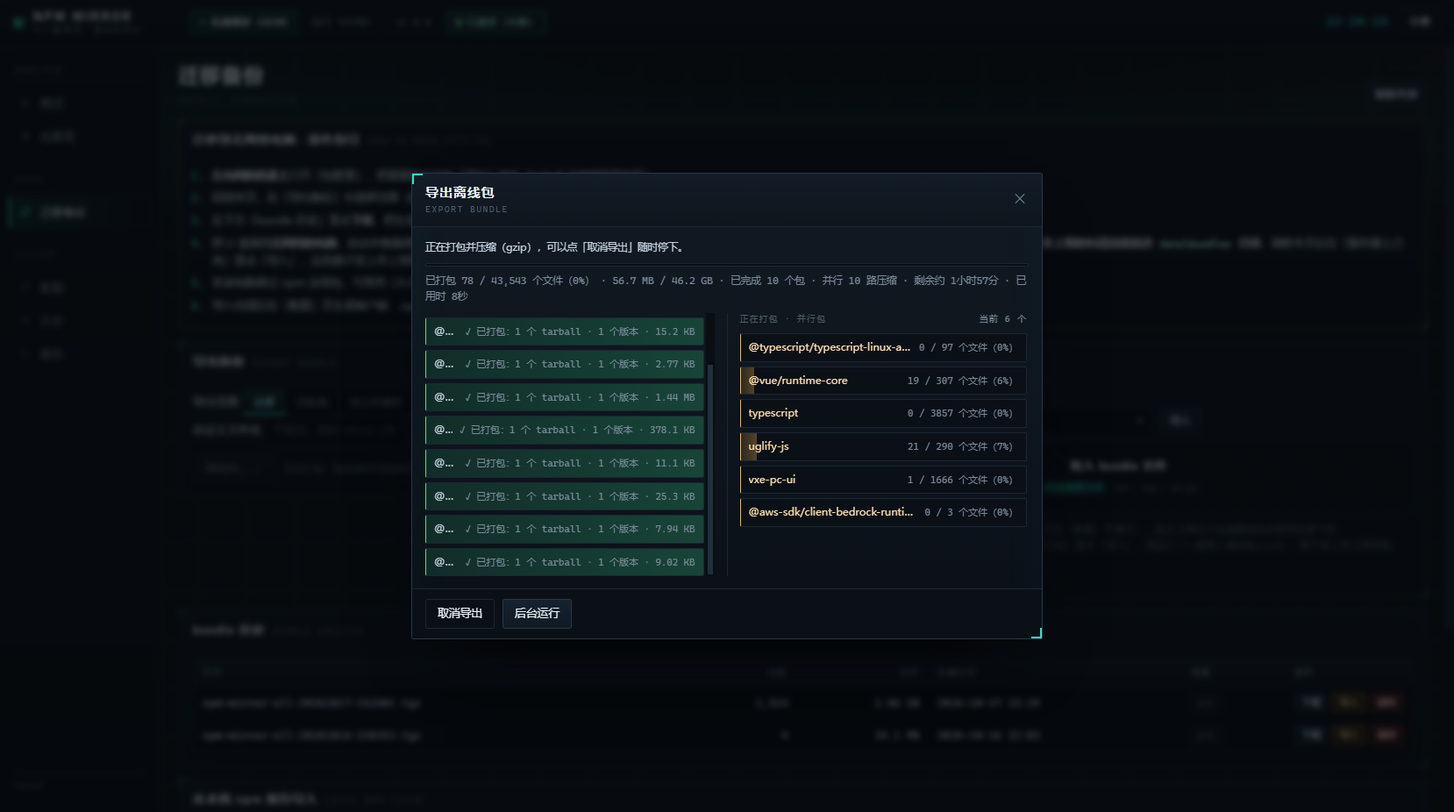
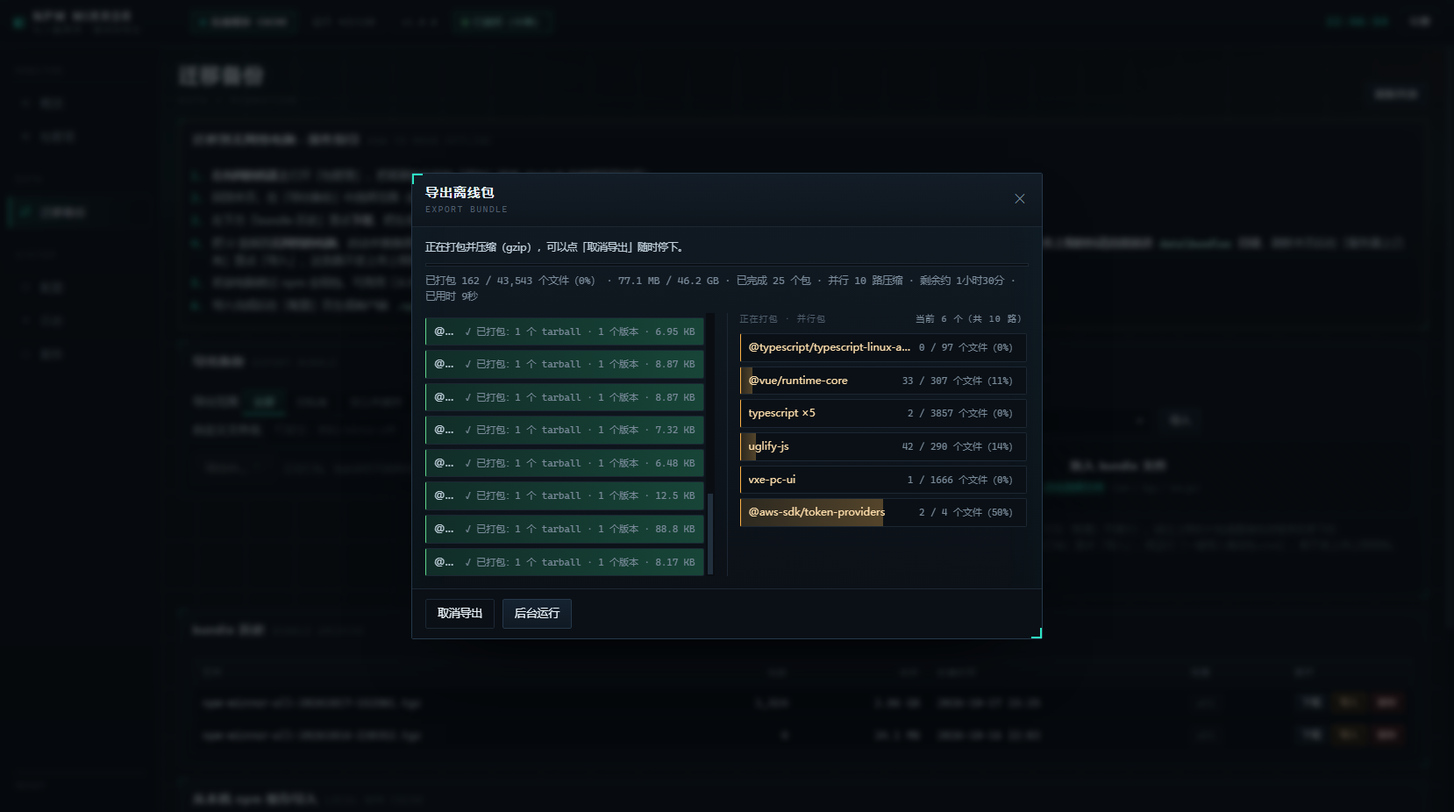
fix(ui): 并行包进度按路数汇总，导出右栏标题显示「共 N 路」与每包 ×N
用户反馈：配置并发 10 路压缩，右栏只显示 6 个「并行包」。原因是右栏按包聚合，而一个包可能被多个压缩分片同时写（如 typescript 有 3857 个文件），行数天然少于路数。\n\n- src/bundle.js：导出 inFlight 改为按包聚合，重复包累加 workers；导入每条 workers=1（一包一路）\n- public/app.js：runningPane 每行带 workers，包名后标 ×N，标题汇总「同时 N 个（共 M 路）」\n- test/api-test.js：断言导出 workers 之和 <= 配置并发、导入 workers 恒为 1 且行数 <= 并发\n- test/ui-check.js：断言 workers/共 N 路/×N 渲染链路\n- 文档同步；截图更新为「同时 6 个（共 10 路）」与 typescript ×5

diff --git a/test/api-test.js b/test/api-test.js
@@ -1734,6 +1734,13 @@ function rawReq(pathname, { method = 'GET', headers = {}, body, timeoutMs = 1500
         check('导出 inFlight 每项都是 {name,done,total}（右栏画进度条要的数值）',
           packs5.every((d) => d.inFlight.every(validFlight5)),
           JSON.stringify(packs5.map((d) => d.inFlight).slice(0, 3)));
+        /* 一个包可能被多个压缩分片同时写：每项带 workers（几路在写这个包），
+         * 「workers 之和」才是真正在并发写条目的路数，不能超过配置的并发数。 */
+        const maxWorkers5 = packs5.reduce((a, d) => Math.max(a, d.inFlight.reduce((s, x) => s + (Number(x.workers) || 1), 0)), 0);
+        check('导出 inFlight 带 workers，且并行写条目的路数不超过配置并发数',
+          packs5.every((d) => d.inFlight.every((x) => x.workers === undefined || (Number.isFinite(Number(x.workers)) && Number(x.workers) >= 1)))
+            && maxWorkers5 >= 1 && maxWorkers5 <= exConc5,
+          `maxWorkers=${maxWorkers5} 配置并发=${exConc5} 示例=${JSON.stringify((packs5.find((d) => d.inFlight.some((x) => Number(x.workers) > 1)) || {}).inFlight || [])}`);
         const rf5 = (fin && fin.result) || {};
         if (rf5.file) bundle5 = rf5.file;
         check('导出任务结束后 inFlight 清空（右栏不留残留行）',
@@ -1755,6 +1762,12 @@ function rawReq(pathname, { method = 'GET', headers = {}, body, timeoutMs = 1500
           `采样=${snaps.length} 有并行包快照=${ims5.length} 示例=${JSON.stringify((ims5[0] || {}).inFlight || [])}`);
         check('导入任务结束后 inFlight 清空', !!fin && Array.isArray(fin.inFlight) && fin.inFlight.length === 0,
           `status=${fin && fin.status} inFlight=${JSON.stringify(fin && fin.inFlight)}`);
+        /* 导入是「一个 worker 独占一个包」，每个在跑的包就是一路：workers 恒为 1，
+         * 行数 == 路数；这里顺带确认它不会超过配置的导入并发数。 */
+        const imMax5 = ims5.reduce((a, d) => Math.max(a, d.inFlight.length), 0);
+        check('导入 inFlight 每项 workers=1（一包一路），行数不超过配置并发数',
+          ims5.every((d) => d.inFlight.every((x) => Number(x.workers) === 1)) && imMax5 >= 1 && imMax5 <= imConc5,
+          `maxRows=${imMax5} 配置并发=${imConc5}`);
         check('导入任务的并发数来自配置（bundleImportConcurrency）', fin && Number(fin.concurrency) === imConc5,
           `concurrency=${fin && fin.concurrency} 期望=${imConc5}`);
       }

diff --git a/src/bundle.js b/src/bundle.js
@@ -464,22 +464,25 @@ async function exportBundle({
     },
     onProgress: (info) => {
       const cur = info.entry > 0 ? entryPkg[info.entry - 1] : null;
-      /* 并行打包时同时有多个包在写：把「正在写的条目」映射成包，去重后交给界面显示
-       * （原来只报最近完成的那个包，界面右栏就只剩 1 条，看起来像没有并行）。 */
-      const inFlight = [];
-      const seenFlight = new Set();
+      /* 并行打包时同时有多个包在写：把「正在写的条目」映射成包交给界面显示。
+       * 注意按包聚合后行数会比并发路数少：一个包可能被多个压缩分片同时写（如 typescript 有 3857 个文件），
+       * 所以给每行带上 workers（有几路正在写这个包），界面用「共 N 路」把真实并发数说清楚。 */
+      const byName = new Map();
       for (const idx of Array.isArray(info.active) ? info.active : []) {
         const p = entryPkg[idx];
-        if (!p || seenFlight.has(p.name)) continue;
-        seenFlight.add(p.name);
-        inFlight.push({
+        if (!p) continue;
+        const it = byName.get(p.name);
+        if (it) { it.workers += 1; continue; }
+        byName.set(p.name, {
           name: p.name,
           done: Math.min(pkgSeen.get(p.name) || 0, p.entries),
           total: p.entries,
           tarballs: p.tarballs,
           versions: p.versions,
+          workers: 1,
         });
       }
+      const inFlight = Array.from(byName.values());
       emit({
         phase: 'pack',
         entriesDone: info.count,
@@ -560,7 +563,9 @@ async function importBundle({
   /* 并行导入时同时有多个包在处理：维护「正在导入的包」集合，随每个事件带给界面，
    * 右栏才能像补 tarball 那样一条包一行（原来只留单个 current，并行 4 路也只显示 1 条）。 */
   const running = new Map();          // name -> {name, done, total}
-  const flight = () => Array.from(running.values()).map(x => ({ name: x.name, done: x.done, total: x.total }));
+  /* 导入是「一个 worker 独占一个包」，所以每个在跑的包就是一路；workers 固定 1，
+   * 界面统一用「共 N 路」汇总显示（导出侧一个包可能被多路分片同时写，workers 会 >1）。 */
+  const flight = () => Array.from(running.values()).map(x => ({ name: x.name, done: x.done, total: x.total, workers: 1 }));
   const emit = (ev) => {
     if (!onProgress) return;
     if (ev && ev.phase === 'package-start') {

diff --git a/public/app.js b/public/app.js
@@ -1454,19 +1454,25 @@
       });
       running = running.slice(0, max);
       var seen = {};
+      var totalWorkers = 0;
       running.forEach(function (p) {
         seen[p.name] = true;
+        totalWorkers += Math.max(1, Number(p.workers) || 1);
         var it = map[p.name];
         if (!it) {
           var fill = el('i', { class: 'tr-fill', style: 'width:0' });
           var tv = el('span', { class: 'tv', text: '' });
+          var nameEl = el('span', { class: 'tr-name', text: p.name });
           var row = el('div', { class: 'taskrow tr-fillrow busy' }, [
             fill,
-            el('div', { class: 'tr-in' }, [el('span', { class: 'tr-name', text: p.name }), tv])
+            el('div', { class: 'tr-in' }, [nameEl, tv])
           ]);
-          it = map[p.name] = { row: row, fill: fill, tv: tv };
+          it = map[p.name] = { row: row, fill: fill, tv: tv, nameEl: nameEl };
           box.appendChild(row);
         }
+        /* 一个包可能被多个压缩分片同时写：包名后标 ×N，别让人误以为只有 1 路在干活 */
+        var w = Math.max(1, Number(p.workers) || 1);
+        it.nameEl.textContent = w > 1 ? (p.name + ' ×' + w) : p.name;
         var pct = Math.round(Number(p.done) / Number(p.target) * 100);
         it.fill.style.width = Math.max(0, Math.min(100, pct)) + '%';
         it.tv.textContent = p.done + ' / ' + p.target + ' ' + unit + '（' + pct + '%）' + (showBytes ? ' · ' + fmtBytes(p.bytes || 0) : '');
@@ -1479,7 +1485,8 @@
       });
       empty.hidden = running.length > 0;
       if (!running.length) empty.textContent = ended ? endedText : emptyText;
-      cnt.textContent = running.length ? (countPrefix + ' ' + running.length + ' 个') : '';
+      cnt.textContent = running.length ? (countPrefix + ' ' + running.length + ' 个' +
+        (totalWorkers > running.length ? '（共 ' + totalWorkers + ' 路）' : '')) : '';
     }
 
     return {
@@ -2926,7 +2933,7 @@
       if (Array.isArray(d.inFlight) && d.inFlight.length) {
         d.inFlight.forEach(function (p) {
           if (!p || !p.name) return;
-          feed.push({ name: p.name, status: 'running', target: Number(p.total) || 0, done: Number(p.done) || 0 });
+          feed.push({ name: p.name, status: 'running', target: Number(p.total) || 0, done: Number(p.done) || 0, workers: Number(p.workers) || 1 });
         });
         lastCur = null;
       } else if (d.current) {

diff --git a/test/ui-check.js b/test/ui-check.js
@@ -502,6 +502,13 @@ async function get(p, { json = false } = {}) {
         && /正在打包 · 并行包/.test(js.text) && /正在导入 · 并行包/.test(js.text));
     check('任务收尾清空 inFlight（导出/导入结束后右栏不留残行）',
       /update\(\{ inFlight: \[\] \}\)/.test(apiSrc) && /o\.update\(\{ inFlight: \[\] \}\)/.test(apiSrc));
+    /* 按包聚合后行数可能少于并发路数（一个包可被多个压缩分片同时写），
+     * 所以每行带 workers、标题汇总「共 N 路」，导入侧每包一路 workers:1。 */
+    check('并行包带 workers：导出按包聚合多路、导入一包一路，界面显示「共 N 路」与 ×N',
+      /const byName = new Map\(\)/.test(bundleSrc) && /it\.workers \+= 1/.test(bundleSrc)
+        && /workers: 1 \}/.test(bundleSrc)
+        && /（共 ' \+ totalWorkers \+ ' 路）/.test(js.text) && /' ×' \+ w/.test(js.text)
+        && /workers: Number\(p\.workers\) \|\| 1/.test(js.text));
   }
 
   console.log('\x1b[1m九、离线包并行导出 / 导入 + 「根目录名不是 package」兼容\x1b[0m');

diff --git a/使用说明.md b/使用说明.md
@@ -139,11 +139,11 @@ npm私人镜像源-离线版\
 | **按版本看体积** | 详情抽屉 →「本地体积（已下载）」与「源体积（源服务器）」两列，未下载的版本本地体积显示 `—` | — |
 | **给老包补真实发布时间** | 详情抽屉 → 底部【**刷新元数据**】（会显示「已刷新 X（N 个版本，发布时间 M 条）」）。镜像里的包一般会自动补齐：**用精简元数据发现发布时间不全时，会自动再拉一次完整元数据**（每个包只多拉一次，之后记在 `publishTimeFull` 里） | `node cli.js add <包名> --force`（重新添加同样会补） |
 | **分清上游时间与本地时间** | 详情抽屉「概要」有四个时间：**上游创建**（仓库第一个版本的时间）、**上游更新**（仓库最后改动时间）、**本地收录**（你把它加进镜像的时间）、**本地更新**（最近一次回源），鼠标悬停有说明；包列表的「更新时间」是**本地时间**，不是上游发布时间 | — |
-| 导出全部包 | 迁移备份 → 导出范围「全部」→「导出 bundle」（会弹**导出进度**窗口：上面一条总进度条 + 统计行，下面左栏逐包列出「已打包」、右栏列出正在并行打包的每个包（每包一行：已处理文件数 / 总数 + 百分比），可【取消导出】；导出成功后自动下载并在 1.5 秒后关窗） | `node cli.js export --scope all` |
+| 导出全部包 | 迁移备份 → 导出范围「全部」→「导出 bundle」（会弹**导出进度**窗口：上面一条总进度条 + 统计行，下面左栏逐包列出「已打包」、右栏列出正在并行打包的每个包（每包一行：已处理文件数 / 总数 + 百分比；标题「同时 N 个（共 M 路）」，同一个包被多路同时写时包名后标 ×N），可【取消导出】；导出成功后自动下载并在 1.5 秒后关窗） | `node cli.js export --scope all` |
 | 导出部分包 | 包管理 → 勾选若干包 →「导出选中」（默认连带把它们的依赖一起导出；镜像里没有的依赖在联网模式下自动从上游下载并入库，下载失败的会在结果里连原因一起提示。可在迁移页取消勾选「同时导出选中包的依赖」或「镜像里没有的依赖自动从上游下载并入库」） | `node cli.js export 包A 包B`（`--no-deps` / `--no-fetch-deps` 可关闭） |
 | **批量补 tarball** | 包管理 → 勾选包 → 选范围（补 dist-tag 版本 / **只补最新版本** / 补全部版本）→ 需要时改「并发」→「补 tarball」（弹窗里上面一条是**总进度**，下面每个包**自己就是一条进度条**：包名与该包的已下/总数、字节、百分比写在条内，跑完变绿，失败变红；左栏最多保留 500 行，超了会收起已完成的包给还没下完的腾位置，出错的包不会被收起；可【取消下载】或【后台运行】，任务跑完后这两个按钮自动置灰并出现【关闭】） | 单包：`node cli.js add <包名>`（默认补最新版） |
 | **全库补 tarball（不用勾选）** | 包管理工具栏 →「**全部包补 dist-tag 版本**」/「**全部包补最新版本**」/「**全部包补全部版本**」→ 确认框里写着「将对镜像里全部 N 个包……」（自动跳过上传包/私有包，说明行会写「已跳过 N 个仅本地的包」）；「补全部版本」会先估算「大约还有多少个版本的 tarball 没缓存」，然后逐个包把所有缺失版本补齐 →「开始补下载」/「确认补全部版本」。已经全都补齐时会提示「无需补充：全部包的……都已缓存」，直接点【关闭】即可 | 递归加包/批量补都用界面的这三个按钮最省事；命令行没有「全库」子命令（可 `node cli.js list` 看包名后自己循环 `add`） |
-| 导入离线包 | 迁移备份 →「导入备份」拖入文件（会弹**导入进度**窗口：网页上传时先显示上传字节进度，落盘后自动切到「解包备份文件」字节进度，再切到逐包导入进度——总进度条 + 成功/失败/跳过统计 + 左栏逐包明细 + 右栏列出正在并行导入的每个包（每包一行：已处理版本数 / 总数），可【取消导入】，已导入的部分会保留；**导入结束后弹窗最下方会整理出「导入结果详情」**——失败逐条列出「包名@版本：原因」、跳过按原因归类计数，右上角「复制清单」可一键复制全部，不用再去左栏一条条翻。网页上传上限见「配置」页的「离线包上传上限」，默认 4096 MB，超过时界面会直接提示；**几个 GB 的整机备份**更稳的做法：把 `.tgz` 放进程序目录的 `data\bundles\`，刷新后在表格里点「导入」） | `node cli.js import <文件.tgz> --overwrite` |
+| 导入离线包 | 迁移备份 →「导入备份」拖入文件（会弹**导入进度**窗口：网页上传时先显示上传字节进度，落盘后自动切到「解包备份文件」字节进度，再切到逐包导入进度——总进度条 + 成功/失败/跳过统计 + 左栏逐包明细 + 右栏列出正在并行导入的每个包（每包一行：已处理版本数 / 总数；一个包一路，行数＝路数），可【取消导入】，已导入的部分会保留；**导入结束后弹窗最下方会整理出「导入结果详情」**——失败逐条列出「包名@版本：原因」、跳过按原因归类计数，右上角「复制清单」可一键复制全部，不用再去左栏一条条翻。网页上传上限见「配置」页的「离线包上传上限」，默认 4096 MB，超过时界面会直接提示；**几个 GB 的整机备份**更稳的做法：把 `.tgz` 放进程序目录的 `data\bundles\`，刷新后在表格里点「导入」） | `node cli.js import <文件.tgz> --overwrite` |
 | 查看包清单 | 包管理列表 | `node cli.js list` / `node cli.js stats` |
 | 从 npm 缓存补包 | 迁移备份 →「扫描缓存目录」→ 候选表分页浏览/筛选 →「导入选中」/「**仅导入不存在的包**」/「**全部导入**」（导入时弹**导入进度**窗口：整体进度 + 逐包详情 + 当前包大进度条，可取消；结束后提示「成功 N 个包（新增 M 个版本 / T 个 tarball），失败 F，跳过 K」） | `node cli.js scan-cache` + `node cli.js import-cache --all` |
 | 换端口 | 配置页改端口 → 保存 → 重启服务 | `node cli.js start --port 5000`（不改配置文件，仅本次） |
@@ -187,9 +187,9 @@ npm私人镜像源-离线版\
 
 | 脚本 | 覆盖内容 | 运行方式 |
 | --- | --- | --- |
-| `test/api-test.js` | **221 项**（本机实测 215 通过 + 6 项跳过、0 失败；跳过含 2 项破坏性用例「重启服务 / 清空日志」需加 `--destructive` 开启，其余为条件跳过）：npm 协议、管理接口、公共包回源、私有包发布、上传、一键补 tarball（含后台任务/进度/并发/取消/失败判定）、**任务快照里的逐版本下载进度（`downloads[]`：name/version/received/total，400ms 节流、并发时多条、结束后清空）**、按版本补、**只补最新版本**、**全部包补（不用勾选、自动跳过仅本地的包）**、**全部包补全部版本（`mode=all` 规划到每个包的每个缺失版本、任务标题与可取消、目标数不小于 dist-tag 模式）**、**每个版本的真实发布时间（不能用本地时间顶替）**、**递归添加依赖（层级限制/闭包完整/多版本共存/非注册表依赖识别/带空格范围 `>= 2.1.2 < 3` 的正确解析/`npm:` 别名）**、**包管理页「缺 tarball / 不缺 tarball」快捷筛选（`tarballs=missing|complete` 命中数之和 = 全部包数、各自与逐包 `store.missingTarballs()` 扫描一致、未知取值按「全部」处理）**、离线包导出导入、**导出时自动补齐缺失依赖（cache 模式自动下载入库后一起导出、`autoFetchDeps:false` 不联网、依赖下载失败不中断导出并写明原因、manifest 记录 autoFetch 摘要、自动下载的依赖会被清理）**、**网页上传整机备份（原始体流式导入、声明体积超限提前 413、空请求体 400、会话/列表暴露上传上限、非法上限 400）**、**导出/导入备份的详细进度任务（progress:true → taskId → 轮询到终态、逐包 packages[] 明细、result 字段、原始体 `?progress=1`、取消导出）**、**导出/导入并行（并发配置默认 4、非法并发 400、任务快照带 concurrency、并行打包产物可正常解析、并行导入结果与串行一致）与「tarball 根目录名不是 package」的兼容（自造 odd-root/ 根目录的包能正常导入、导入后能取到版本）**、**tarball 内版本写法被 npm 规范化（packument 1.0.0-beta / tarball 内 1.0.0beta）也能导入**、**任务快照里逐包原因（缺 tarball 的包为 skipped + 「bundle 内缺少 N 个版本的 tarball」、校验失败的包为 failed + integrity 原因，供导入结果详情面板使用）**、单版本删除、npm 缓存导入、**本机缓存导入的进度任务（progress:true → taskId → 逐包 packages[]/current 字段）**、鉴权与服务控制、**安全回归（tarball 路径穿越必须 400/404 且不泄露令牌、管理接口 Origin:null 403、非法配置 400、非法包名 400、版本范围/预发布比较）** | 先启动服务，再 `node test/api-test.js` |
+| `test/api-test.js` | **223 项**（本机实测 217 通过 + 6 项跳过、0 失败；跳过含 2 项破坏性用例「重启服务 / 清空日志」需加 `--destructive` 开启，其余为条件跳过）：npm 协议、管理接口、公共包回源、私有包发布、上传、一键补 tarball（含后台任务/进度/并发/取消/失败判定）、**任务快照里的逐版本下载进度（`downloads[]`：name/version/received/total，400ms 节流、并发时多条、结束后清空）**、按版本补、**只补最新版本**、**全部包补（不用勾选、自动跳过仅本地的包）**、**全部包补全部版本（`mode=all` 规划到每个包的每个缺失版本、任务标题与可取消、目标数不小于 dist-tag 模式）**、**每个版本的真实发布时间（不能用本地时间顶替）**、**递归添加依赖（层级限制/闭包完整/多版本共存/非注册表依赖识别/带空格范围 `>= 2.1.2 < 3` 的正确解析/`npm:` 别名）**、**包管理页「缺 tarball / 不缺 tarball」快捷筛选（`tarballs=missing|complete` 命中数之和 = 全部包数、各自与逐包 `store.missingTarballs()` 扫描一致、未知取值按「全部」处理）**、离线包导出导入、**导出时自动补齐缺失依赖（cache 模式自动下载入库后一起导出、`autoFetchDeps:false` 不联网、依赖下载失败不中断导出并写明原因、manifest 记录 autoFetch 摘要、自动下载的依赖会被清理）**、**网页上传整机备份（原始体流式导入、声明体积超限提前 413、空请求体 400、会话/列表暴露上传上限、非法上限 400）**、**导出/导入备份的详细进度任务（progress:true → taskId → 轮询到终态、逐包 packages[] 明细、result 字段、原始体 `?progress=1`、取消导出）**、**导出/导入并行（并发配置默认 4、非法并发 400、任务快照带 concurrency、并行打包产物可正常解析、并行导入结果与串行一致）与「tarball 根目录名不是 package」的兼容（自造 odd-root/ 根目录的包能正常导入、导入后能取到版本）**、**tarball 内版本写法被 npm 规范化（packument 1.0.0-beta / tarball 内 1.0.0beta）也能导入**、**任务快照里逐包原因（缺 tarball 的包为 skipped + 「bundle 内缺少 N 个版本的 tarball」、校验失败的包为 failed + integrity 原因，供导入结果详情面板使用）**、单版本删除、npm 缓存导入、**本机缓存导入的进度任务（progress:true → taskId → 逐包 packages[]/current 字段）**、鉴权与服务控制、**安全回归（tarball 路径穿越必须 400/404 且不泄露令牌、管理接口 Origin:null 403、非法配置 400、非法包名 400、版本范围/预发布比较）** | 先启动服务，再 `node test/api-test.js` |
 | `test/acceptance-npm.ps1` | **16 项**：用**真实 npm 命令**跑完整生命周期（install / publish / view / dist-tag add-ls-rm / deprecate / unpublish） | `pwsh -NoProfile -File test\acceptance-npm.ps1` |
-| `test/ui-check.js` | **124 项**：界面静态资源、无外链、前端调用的接口后端都有实现、首屏接口可用、`[hidden]` 兜底样式、**悬停提示自绘浮层（首页无原生 `title`、`el()` 把 `title` 映射成 `data-tip`、`uiTip` 控制器与 `.ui-tip` 样式、项目配色变量）**、**favicon 声明与图标路由（`<link rel="icon">`、GET /favicon.ico 返回项目图标）**、**补 tarball 进度弹窗右栏「版本进度」（每个并发下载版本一行、实时字节文本、上游逐块上报链路、api.js 透传 `downloads`）**、**三个「全部包」批量入口（dist-tag / 最新 / 全部版本）的按钮、绑定、确认框估算和作用域**、**导出依赖闭包与「缺的依赖自动从上游下载并入库」勾选框（`#exp-auto-fetch`、`autoFetchDeps` 透传、结果展示自动下载数量）**、**包管理页「缺 tarball / 不缺 tarball」快捷筛选（两个分段按钮与文案、列表请求带 `&tarballs=`、再点一次取消筛选、后端 store/api 口径、真接口逐行校验）**、**补 tarball 进度弹窗左栏行数上限回收（超过 500 行时收起已完成行、失败/下载中行保留、顶部提示条、源码注入单测）**、**导出/导入进度弹窗右栏「并行包」多行进度（`inFlight`：多个包同时处理时各一行、任务结束清空）**、**导入进度弹窗（进度行/逐包详情/后端 progress 分支）**、**导入备份的网页上传上限预检与本地文件通路（`#imp-limit-hint`、超限直接拦截并指引 data\bundles、上传错误文案、配置页「离线包上传上限」、服务端流式落盘/提前 413/requestTimeout/413·408 warn 日志）**、**导出/导入备份的详细进度条（整体进度条 + 统计行 + 左右两栏 + 逐包明细 + 当前包大进度条 + XHR 上传字节进度 + /tasks 轮询与取消 + 分阶段说明）**、**离线包并行导出/导入（并发配置默认 4 与范围校验、配置页两个并发字段、多段 gzip 拼接、onEntryDone 条目映射、worker 池按包并行、任务快照 concurrency、「并行 N 路」文案）与「tarball 根目录名不是 package」兼容（readRootPackageJson、根级一层目录正则、兼容导入、跳过原因文案）**、**导入结束后的「导入结果详情」（onFinalize 钩子、失败逐条不重复前缀、跳过按原因归类、复制清单按钮 + 剪贴板回退、可滚动样式）** | 先启动服务，再 `node test/ui-check.js` |
+| `test/ui-check.js` | **125 项**：界面静态资源、无外链、前端调用的接口后端都有实现、首屏接口可用、`[hidden]` 兜底样式、**悬停提示自绘浮层（首页无原生 `title`、`el()` 把 `title` 映射成 `data-tip`、`uiTip` 控制器与 `.ui-tip` 样式、项目配色变量）**、**favicon 声明与图标路由（`<link rel="icon">`、GET /favicon.ico 返回项目图标）**、**补 tarball 进度弹窗右栏「版本进度」（每个并发下载版本一行、实时字节文本、上游逐块上报链路、api.js 透传 `downloads`）**、**三个「全部包」批量入口（dist-tag / 最新 / 全部版本）的按钮、绑定、确认框估算和作用域**、**导出依赖闭包与「缺的依赖自动从上游下载并入库」勾选框（`#exp-auto-fetch`、`autoFetchDeps` 透传、结果展示自动下载数量）**、**包管理页「缺 tarball / 不缺 tarball」快捷筛选（两个分段按钮与文案、列表请求带 `&tarballs=`、再点一次取消筛选、后端 store/api 口径、真接口逐行校验）**、**补 tarball 进度弹窗左栏行数上限回收（超过 500 行时收起已完成行、失败/下载中行保留、顶部提示条、源码注入单测）**、**导出/导入进度弹窗右栏「并行包」多行进度（`inFlight`：多个包同时处理时各一行、任务结束清空；标题按路数汇总「同时 N 个（共 M 路）」，同一个包被多路同时写时包名后标 ×N）**、**导入进度弹窗（进度行/逐包详情/后端 progress 分支）**、**导入备份的网页上传上限预检与本地文件通路（`#imp-limit-hint`、超限直接拦截并指引 data\bundles、上传错误文案、配置页「离线包上传上限」、服务端流式落盘/提前 413/requestTimeout/413·408 warn 日志）**、**导出/导入备份的详细进度条（整体进度条 + 统计行 + 左右两栏 + 逐包明细 + 当前包大进度条 + XHR 上传字节进度 + /tasks 轮询与取消 + 分阶段说明）**、**离线包并行导出/导入（并发配置默认 4 与范围校验、配置页两个并发字段、多段 gzip 拼接、onEntryDone 条目映射、worker 池按包并行、任务快照 concurrency、「并行 N 路」文案）与「tarball 根目录名不是 package」兼容（readRootPackageJson、根级一层目录正则、兼容导入、跳过原因文案）**、**导入结束后的「导入结果详情」（onFinalize 钩子、失败逐条不重复前缀、跳过按原因归类、复制清单按钮 + 剪贴板回退、可滚动样式）** | 先启动服务，再 `node test/ui-check.js` |
 | `test/tray-check.js` | **35 项**（Windows）：`tools\tray.ps1` 契约（托盘图标 = 项目 favicon、左键显示/右键动态菜单、只显示与当前窗口状态对应的项、就绪后才隐藏、WM_SETICON、退出时走 `/service/shutdown` 并关窗、服务外部停止后自动退出、UTF-8 BOM）、`public\favicon.ico` 结构（多尺寸/32 位/偏移合法）、`启动镜像源.cmd`（`start /b powershell` 拉起托盘、不传 `-Root`、保留前台 `node cli.js start`）、server.js 的 favicon 分支并实测 `GET /favicon.ico` 与图标文件字节一致，最后真跑一次托盘 `-SelfTest` 校验菜单文案与图标加载 | 先启动服务，再 `node test/tray-check.js` |
 | `test/tray-e2e.ps1` | **托盘端到端（8 项，手工跑）**：隔离副本里用真实 `启动镜像源.cmd` 启动 → 服务在线 + 命令行窗口被隐藏 + 托盘日志正确 → 窗口能被重新显示（模拟左键）→ `cli.js stop` 后托盘自动退出并关窗 | `powershell -NoProfile -ExecutionPolicy Bypass -File test\tray-e2e.ps1`（需真实桌面；不碰真实实例数据） |
 | `test/ui-e2e-fill.js` | 真机（无头浏览器）点击「勾选包 → 补 tarball」，采样**真实进度百分比/速率**并截图 | `node test/ui-e2e-fill.js --pkg ms --mode all`（沙箱内需放宽权限） |

diff --git a/报告.md b/报告.md
@@ -106,8 +106,8 @@ npm私人镜像源-离线版\
 │   └─ logs\                        按天切分的日志（含托盘日志 tray.log）
 ├─ 截图\                            管理界面六个页面的实拍 PNG
 └─ test\                            自检与验收脚本
-    ├─ api-test.js        2169 行   服务端 + npm 协议（当前 221 项；环境不足 / 破坏性用例会显式 SKIP）
-    ├─ ui-check.js         609 行   界面 124 项
+    ├─ api-test.js        2296 行   服务端 + npm 协议（当前 223 项；环境不足 / 破坏性用例会显式 SKIP）
+    ├─ ui-check.js         616 行   界面 125 项
     ├─ tray-check.js               托盘/图标/启动脚本 35 项（含真跑一次托盘自检）
     ├─ tray-e2e.ps1                托盘端到端手工脚本（隔离副本，需真实桌面）
     ├─ acceptance-npm.ps1  141 行   真实 npm 客户端 16 项
@@ -864,8 +864,9 @@ pwsh test/acceptance-npm.ps1 →  16/16 通过
 | 用户要求 | “为什么导出备份时，右侧栏只显示1个当前？修复一下。同时检查导入是否也存在类似问题” |
 | 问题 | 打包层 `packTarGz` 的 `onProgress` 只报最后完成的单个条目，`exportBundle` 只把它折算成 1 个包，`api.js` 的任务快照也只有单个 `current`；导入侧 worker 池同样只保留 1 个 current；前端 `runningPane(1)` 写死 1 行——并行 10 路压缩时右栏永远只剩 1 条，看起来像只有一个包在工作 |
 | 修复 | `src/tar.js` 用 `active` Set 跟踪「正在写的条目下标」并随进度上报；`src/bundle.js` 导出把条目下标映射成去重的 `inFlight`（多个包，各带 done/total），导入在 worker 池维护在跑集合并附到 `package-start/version/package` 事件；`src/api.js` 把 `inFlight` 写进任务快照、任务结束立即清空；`src/tasks.js` 的 `brief()` 白名单放行 `inFlight`；`public/app.js` 右栏改用 `d.inFlight` 渲染多行，并用 `runningPane.setMax(d.concurrency)` 对齐并发数，标题改为「正在打包 · 并行包」/「正在导入 · 并行包」；本机缓存导入是串行任务（`concurrency: 1`），保持「正在导入 · 当前包」不变 |
-| 测试 | `test/api-test.js` 新增「六之四之二」：tar 层单测（4 个条目、并发 2 时 `active` 同时 ≥2，结束后清空）+ 真接口导出/导入任务快照 `inFlight`（沿用配置里的并发 10/14、多项字段合法、任务结束清空）→ **221 项：215 通过 + 6 跳过、0 失败**；`test/ui-check.js` 新增 3 项后端链路/前端渲染/收尾清空断言 → **124/124 通过**；`ui-e2e-migrate` 58/58、`ui-e2e-fill-all` 37/37 回归通过（镜像已被补满时，「版本进度真机字节」用例会显式跳过场景不存在的断言，不造假通过） |
-| 实测 | 无头 Chrome 真机导出「全部」：右栏「正在打包 · 并行包」同时 6 行（如 `@vue/runtime-core 19 / 307 个文件（6%）`、`uglify-js 21 / 290 个文件（7%）`、`typescript 0 / 3857 个文件（0%）`），左栏继续逐包列出已完成项；截图 [截图/导出-并行包进度.png](截图/导出-并行包进度.png) |
+| 并行路数 vs 包数 | 右栏行数按**包**聚合：一个包可能被多个压缩分片同时写（如 `typescript` 有 3857 个文件），所以「并行 10 路」时行数可能只有 6。现在每行带 `workers`，包名后标 `×N` 表示有几路在写这个包，标题显示「同时 N 个（共 M 路）」，`workers` 之和 = 真正并发的路数（api-test 断言 `maxWorkers <= 配置并发`）；导入侧一个 worker 独占一个包，行数＝路数（`workers` 恒为 1） |
+| 测试 | `test/api-test.js` 新增「六之四之二」：tar 层单测（4 个条目、并发 2 时 `active` 同时 ≥2，结束后清空）+ 真接口导出/导入任务快照 `inFlight`（沿用配置里的并发 10/14、多项字段合法、任务结束清空）→ **223 项：217 通过 + 6 跳过、0 失败**；`test/ui-check.js` 新增 4 项后端链路/前端渲染/收尾清空/路数汇总断言 → **125/125 通过**；`ui-e2e-migrate` 58/58、`ui-e2e-fill-all` 37/37 回归通过（镜像已被补满时，「版本进度真机字节」用例会显式跳过场景不存在的断言，不造假通过） |
+| 实测 | 无头 Chrome 真机导出「全部」：右栏「正在打包 · 并行包」标题显示 `同时 6 个（共 10 路）`，6 行里 `typescript ×5` 说明 10 路中有 5 路在写同一个大包（`typescript 2 / 3857 个文件`、`uglify-js 42 / 290 个文件（14%）`、`@vue/runtime-core 33 / 307 个文件（11%）`）；左栏继续逐包列出已完成项；截图 [截图/导出-并行包进度.png](截图/导出-并行包进度.png) |
 
 ## 十、最终状态
 
@@ -881,7 +882,7 @@ pwsh test/acceptance-npm.ps1 →  16/16 通过
 - 导出/导入支持**多包并行**：`storage.bundleExportConcurrency`（并行压缩，默认 4）与 `storage.bundleImportConcurrency`（同时处理的包数，默认 4）均可配置（1–16），统计行会显示「并行 N 路」；**自己导出的整机备份再导入不会再误判成坏包**——tarball 根目录名不是 `package/`（`@types/*` 这类历史包）、版本写法被 npm 规范化（`1.0.0beta` vs `1.0.0-beta`）、上游元数据写的版本与键不一致（如 npmmirror 的 `npm@6.8.0`）都能正常导入（实测 2.86GB 整机包 1,508 包 / 4,551 版本全部导入、0 失败，约 98 秒）。
 - 导入离线包结束（成功或取消）后，弹窗最下方会整理出**「导入结果详情」**：失败逐条列出「包名@版本：原因」、跳过按原因归类计数，右上角「复制清单」一键复制全部，不用再去左栏一条条翻。
 - 双击「启动镜像源.cmd」启动后，**命令行窗口在服务就绪后自动隐藏，右下角托盘出现项目图标**（薄荷绿圆角方块，自绘 `public/favicon.ico`，同时用作浏览器 favicon 和命令行窗口图标）；左键单击托盘图标叫回窗口，右键菜单按当前状态动态显示「打开控制台 / 隐藏控制台」+ 永远存在的「打开管理界面」（默认浏览器打开网页端管理页面）与「退出镜像源」（先优雅停服务再关窗），用「停止镜像源.cmd」停服务时托盘会自动检测并退出。
-- 十一套自检脚本均可重复执行：`test\run-all.js` 一键跑（要求服务已启动，Windows 下先跑托盘自检再跑 api-test）。脚本会先给要改动的包做快照/备份，收尾按快照恢复；依赖上游或本机缓存的用例在环境不满足时显式 SKIP（计入「跳过」而不是假通过）。`test\tray-e2e.ps1` 是托盘端到端手工脚本（需要真实桌面，用隔离副本启动，不碰真实实例数据），`test\tray-check.js` 的 35 项、`test\ui-check.js` 的 124 项、`test\ui-e2e-fill-all.js` 的 37 项与 `test\api-test.js` 的 221 项（215 通过 + 6 跳过）均可随 `run-all.js` 一起跑。
+- 十一套自检脚本均可重复执行：`test\run-all.js` 一键跑（要求服务已启动，Windows 下先跑托盘自检再跑 api-test）。脚本会先给要改动的包做快照/备份，收尾按快照恢复；依赖上游或本机缓存的用例在环境不满足时显式 SKIP（计入「跳过」而不是假通过）。`test\tray-e2e.ps1` 是托盘端到端手工脚本（需要真实桌面，用隔离副本启动，不碰真实实例数据），`test\tray-check.js` 的 35 项、`test\ui-check.js` 的 125 项、`test\ui-e2e-fill-all.js` 的 37 项与 `test\api-test.js` 的 223 项（217 通过 + 6 跳过）均可随 `run-all.js` 一起跑。
 - 自检与实测会在镜像里留下 `mirror-selftest-*`（api-test 会在收尾时自动删掉）、`mirror-e2e-*`（e2e 自建自删），以及 `debug`、`express` 等验证补 tarball 时添加的包——不需要的话在【包管理】页勾选删除，或 `node cli.js remove <包名> --yes`。
 - 「依赖完整性审计」补进来的 180 多个包都是**传递依赖**（不是测试残留）：它们保证你已经下载的包在断网后仍然装得上；如果确实不想要，可在【包管理】页按关键词勾选后批量删除（例如搜 `@babel`、`pug`、`socket.io`）。
 - 自检脚本 `test\api-test.js` 五之七会临时剪掉 `chalk`/`ansi-styles`/`supports-color`/`has-flag`/`color-convert`/`color-name` 这 6 个包来构造干净场景，跑完会**按版本原样补回**：剪之前先把包目录备份到临时目录并记录已缓存版本，收尾先尝试 `POST /packages` 从上游补回，失败（离线/上游不可达）则直接从本地备份把包目录拷回 `data\storage`，因此反复执行也不会弄丢镜像里的包。

diff --git a/README.md b/README.md
@@ -15,7 +15,7 @@
 - **私有包仓库**：支持 `npm publish`、`npm unpublish`、`npm deprecate`、`npm dist-tag`，私有包与上游同名包隔离，不会混淆
 - **离线迁移**：导出整个镜像为单个 `.tgz` bundle，拷贝到无网络电脑后导入；也支持直接导入本机 `~/.npm/_cacache` 已有缓存。**导出选中包时默认连带递归依赖，镜像里没有的依赖会在联网模式下自动从上游下载并入库再一起打包**；下载失败不会中断导出，失败依赖会连原因一起记进 bundle 清单并在界面/命令行提示。**导出和导入都有详细进度弹窗**：一条总进度（导出按字节/文件数，导入按解包字节与包数）+ 逐包明细（已打包 / 新增 / 失败 / 跳过）+ 当前包的大进度条，长任务可取消。**导出/导入都支持多包并行**（默认 4 路，可配置），备份再导入不会因为 tarball 根目录名不叫 `package/` 而误判成坏包（`@types/*` 这类历史包也能正常导入）。**导入结束后弹窗底部会整理出一块「导入结果详情」**：失败逐条列出（`包名@版本：原因`）、跳过按原因归类计数，右上角一键复制清单，不用再去左栏一条条翻。
 - **可视化管理界面**：概览、包管理、迁移备份（含本机缓存导入）、配置、日志、服务控制共 6 个页面，中文界面，全按钮操作；包详情、依赖解析、任务进度以抽屉/弹窗呈现；**所有鼠标悬停提示都是项目风格的自绘浮层**（深色面板 + 青色强调条 + 等宽小字），不是浏览器原生 `title` 小黄框
-- **补齐工具链**：勾选的包一键补 tarball（dist-tag / 只补最新 / 全部版本），包管理页还有三个**不用勾选**的批量入口：「全部包补 dist-tag 版本」「全部包补最新版本」「**全部包补全部版本**」（最全，把每个包所有缺失版本都补齐，确认框会先给出还要补多少个版本的估计）；递归添加依赖（含 `npm:` 别名），后台任务可看进度、可取消（进度弹窗右栏按**每个并发下载的版本**实时显示单文件字节数）；包管理列表还有**「缺 tarball / 不缺 tarball」快捷筛选**（点一下只看还没补全的包，再点一次同一个按钮取消）；补 tarball 进度弹窗左栏最多保留 500 行，超出后自动收起「已完成」的包，给还没下完的包腾位置（出错的包永远保留，顶部提示条写明已收起多少行）；导出/导入备份的进度弹窗右栏会列出**正在并行处理的每个包**（每个包一行：已处理文件数 / 总数 + 百分比），不再只剩 1 个「当前包」
+- **补齐工具链**：勾选的包一键补 tarball（dist-tag / 只补最新 / 全部版本），包管理页还有三个**不用勾选**的批量入口：「全部包补 dist-tag 版本」「全部包补最新版本」「**全部包补全部版本**」（最全，把每个包所有缺失版本都补齐，确认框会先给出还要补多少个版本的估计）；递归添加依赖（含 `npm:` 别名），后台任务可看进度、可取消（进度弹窗右栏按**每个并发下载的版本**实时显示单文件字节数）；包管理列表还有**「缺 tarball / 不缺 tarball」快捷筛选**（点一下只看还没补全的包，再点一次同一个按钮取消）；补 tarball 进度弹窗左栏最多保留 500 行，超出后自动收起「已完成」的包，给还没下完的包腾位置（出错的包永远保留，顶部提示条写明已收起多少行）；导出/导入备份的进度弹窗右栏会列出**正在并行处理的每个包**（每个包一行：已处理文件数 / 总数 + 百分比），不再只剩 1 个「当前包」；行数按包聚合，标题里的「共 N 路」才是真正并发的路数，同一个包被多路同时写时包名后标 ×N（导入侧一个包一路）
 - **零依赖实现**：HTTP 服务、tar.gz 打包解包、semver 比较、npm 协议、断点与完整性校验全部手写，无任何第三方包
 
 ## 快速开始
@@ -188,8 +188,8 @@ pwsh -File test/acceptance-npm.ps1   # 真实 npm 客户端验收（Windows / Po
 
 | 脚本 | 内容 | 最近结果（2026-10-17，本机） |
 | --- | --- | --- |
-| `test/api-test.js` | npm 协议、管理接口、发布/删除、离线导入导出、进度任务（含逐版本 `downloads[]` 实时进度）、并行导出导入与根目录/版本写法兼容、导出时自动补齐缺失依赖、全部包补全部版本规划、安全回归、包管理页「缺 tarball / 不缺 tarball」快捷筛选等 221 项 | **215 通过 + 6 跳过，0 失败** |
-| `test/ui-check.js` | 前端与后端接口/页面元素契约（含导入结果的失败/跳过详情面板、导出自动补依赖勾选项、全部包补全部版本入口、补 tarball 弹窗「版本进度」栏、「缺 tarball / 不缺 tarball」快捷筛选、悬停提示自绘浮层（首页无原生 title、el() 把 title 映射成 data-tip、uiTip 控制器、`.ui-tip` 样式与项目配色变量）、补 tarball 左栏行数上限回收（`reclaimRow` 只收已完成行、失败行保留、提示条）、导出/导入进度弹窗右栏「并行包」多行进度（`inFlight`）、favicon 声明） | **124/124 通过** |
+| `test/api-test.js` | npm 协议、管理接口、发布/删除、离线导入导出、进度任务（含逐版本 `downloads[]` 实时进度）、并行导出导入与根目录/版本写法兼容、导出时自动补齐缺失依赖、全部包补全部版本规划、安全回归、包管理页「缺 tarball / 不缺 tarball」快捷筛选等 223 项 | **217 通过 + 6 跳过，0 失败** |
+| `test/ui-check.js` | 前端与后端接口/页面元素契约（含导入结果的失败/跳过详情面板、导出自动补依赖勾选项、全部包补全部版本入口、补 tarball 弹窗「版本进度」栏、「缺 tarball / 不缺 tarball」快捷筛选、悬停提示自绘浮层（首页无原生 title、el() 把 title 映射成 data-tip、uiTip 控制器、`.ui-tip` 样式与项目配色变量）、补 tarball 左栏行数上限回收（`reclaimRow` 只收已完成行、失败行保留、提示条）、导出/导入进度弹窗右栏「并行包」多行进度（`inFlight`）、并行包路数汇总（`workers`、标题「共 N 路」、每包 ×N 标记）、favicon 声明） | **125/125 通过** |
 | `test/tray-check.js` | 托盘脚本/项目图标/启动脚本/favicon 路由契约（含右键菜单「打开管理界面」），并真跑一次托盘自检（Windows） | **35/35 通过** |
 | `test/tray-e2e.ps1` | 托盘端到端：隔离副本启动 → 窗口隐藏 → 可重新显示 → 停服务后托盘退出并关窗 | **8/8 通过（手工）** |
 | `test/acceptance-npm.ps1` | 真实 `npm install / publish / dist-tag / deprecate / unpublish` | **16/16 通过** |
